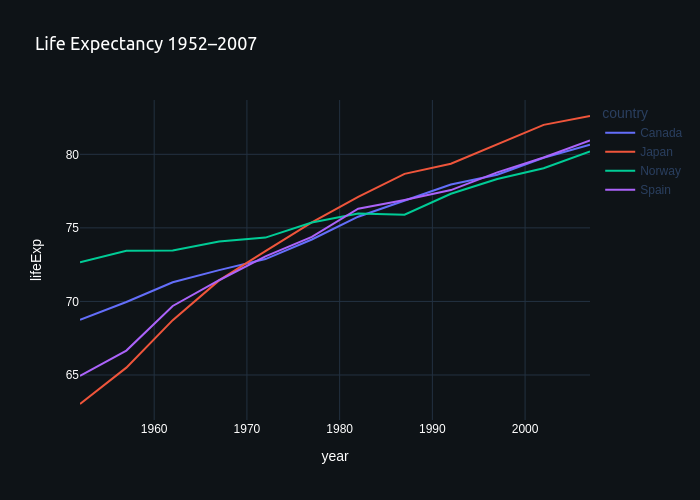
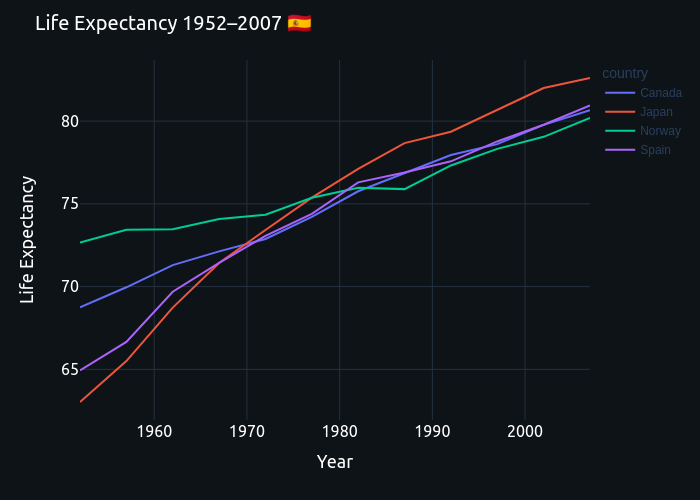
add scraper and cumsum points df

diff --git a/data/scraper.py b/data/scraper.py
@@ -1,0 +1,41 @@
+import pandas as pd
+import requests
+from bs4 import BeautifulSoup
+import sys
+
+url = "https://fiaresultsandstatistics.motorsportstats.com/results/2021-abu-dhabi-grand-prix/standings/drivers"
+
+# requests
+r = requests.get(url)
+print(r.status_code)
+print(r.encoding)  # UTF-8
+print(sys.getsizeof(r))
+
+#  r.text
+
+
+def text2float(text):
+    """Convert a string to a float where appropriate, else return 0"""
+    try:
+        return float(text)
+    except ValueError:
+        return 0
+
+
+# scrape BeautifulSoup and create dataframe
+soup = BeautifulSoup(r.text, "html.parser")
+tracks = soup.find_all(class_="_3QkVN")
+assert len(tracks) == 22  # 22 tracks
+all_points = []
+for track in tracks:
+    points = [t.text for t in track.find_all(class_="_1BvfV")]
+    points = [text2float(p) for p in points]
+    assert len(points) == 21  # 21 drivers
+    all_points.append(points)
+
+colnames = "BHR ROM POR ESP MCO AZE FRA STY AUT GBR HUN BEL NLD ITA RUS TUR USA MEX BRA QAT SAU ARE".split()
+idx = "Verstappen Hamilton Bottas Pérez Sainz Norris Leclerc Ricciardo Gasly Alonso Ocon Vettel Stroll Tsunoda Russell Räikkönen Latifi Giovinazzi Schumacher Kubica Mazepin".split()
+df = pd.DataFrame(all_points).transpose()
+df.columns = colnames
+df.index = idx
+df = df.cumsum(axis=1)

diff --git a/plots/plot.py b/plots/plot.py
@@ -1,4 +1,3 @@
-from turtle import title
 import plotly.express as px
 
 # from plotly.io import write_image
@@ -19,20 +18,31 @@ fig.update_xaxes(
     gridwidth=1,
     gridcolor="#233141",
     color="white",
+    title=dict(
+        text="Year",
+        font=dict(family="Ubuntu", size=18, color="white"),
+    ),
+    tickfont=dict(family="Ubuntu", size=16, color="white"),
 )
 fig.update_yaxes(
     showgrid=True,
     gridwidth=1,
     gridcolor="#233141",
     color="white",
+    title=dict(
+        text="Life Expectancy",
+        font=dict(family="Ubuntu", size=18, color="white"),
+    ),
+    tickfont=dict(family="Ubuntu", size=16, color="white"),
 )
 fig.update_layout(
     paper_bgcolor="#0e1317",
     plot_bgcolor="#0e1317",
     title=dict(
-        text="Life Expectancy 1952–2007",
-        font=dict(family="Ubuntu", size=18, color="white"),
+        text="Life Expectancy 1952–2007 🇪🇸",
+        font=dict(family="Ubuntu", size=20, color="white"),
     ),
 )
 # fig.show()
 fig.write_image("newplot.png")
+# fig.write_json("newplot.json")
